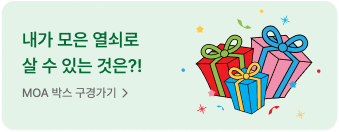
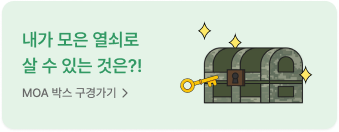
feat : 기능 및 이미지 변경

diff --git a/client/src/components/reward/MyBoxList.js b/client/src/components/reward/MyBoxList.js
@@ -7,8 +7,13 @@ function MyBoxList({ tabName, tabList }) {
   const { userBoxList } = useContext(UserInventoryData);
   return (
     <MyBoxListStyle className={tabList[0] === tabName ? "isSelect" : ""}>
-      {0 < userBoxList.length &&
-        userBoxList.map((item) => <MyBoxListItem key={uuid()} item={item} />)}
+      {0 < userBoxList.length && (
+        <div className="itemList">
+          {userBoxList.map((item) => (
+            <MyBoxListItem key={uuid()} item={item} />
+          ))}
+        </div>
+      )}
       {0 >= userBoxList?.length && (
         <div className="emptyList">
           <img
@@ -24,24 +29,32 @@ function MyBoxList({ tabName, tabList }) {
 
 const MyBoxListStyle = styled.div`
   display: none;
+
   &.isSelect {
     margin: 0 auto;
     height: inherit;
+    flex: 1;
+    display: block;
+  }
+  .itemList {
     display: flex;
     gap: 15px;
     flex-wrap: wrap;
     align-items: center;
+  }
+  .emptyList {
+    display: flex;
+    flex-direction: column;
     justify-content: center;
-    .emptyList {
-      text-align: center;
-      color: var(--Body_01);
-      font-family: "Pretendard-Medium";
-      font-size: 16px;
-      line-height: 25px;
-      img {
-        filter: grayscale();
-        margin-bottom: 8px;
-      }
+    align-items: center;
+    height: inherit;
+    color: var(--Body_01);
+    font-family: "Pretendard-Medium";
+    font-size: 16px;
+    line-height: 25px;
+    img {
+      filter: grayscale();
+      margin-bottom: 8px;
     }
   }
 `;

diff --git a/client/src/components/common/KeyPopUp.js b/client/src/components/common/KeyPopUp.js
@@ -22,7 +22,7 @@ function KeyPopUp() {
         <KeyImage>
           <img
             className="animate__animated animate__tada"
-            src={require("assets/keyPopUp.png")}
+            src={require("assets/keyPopUp.svg").default}
             alt="열쇠이미지"
           />
         </KeyImage>
